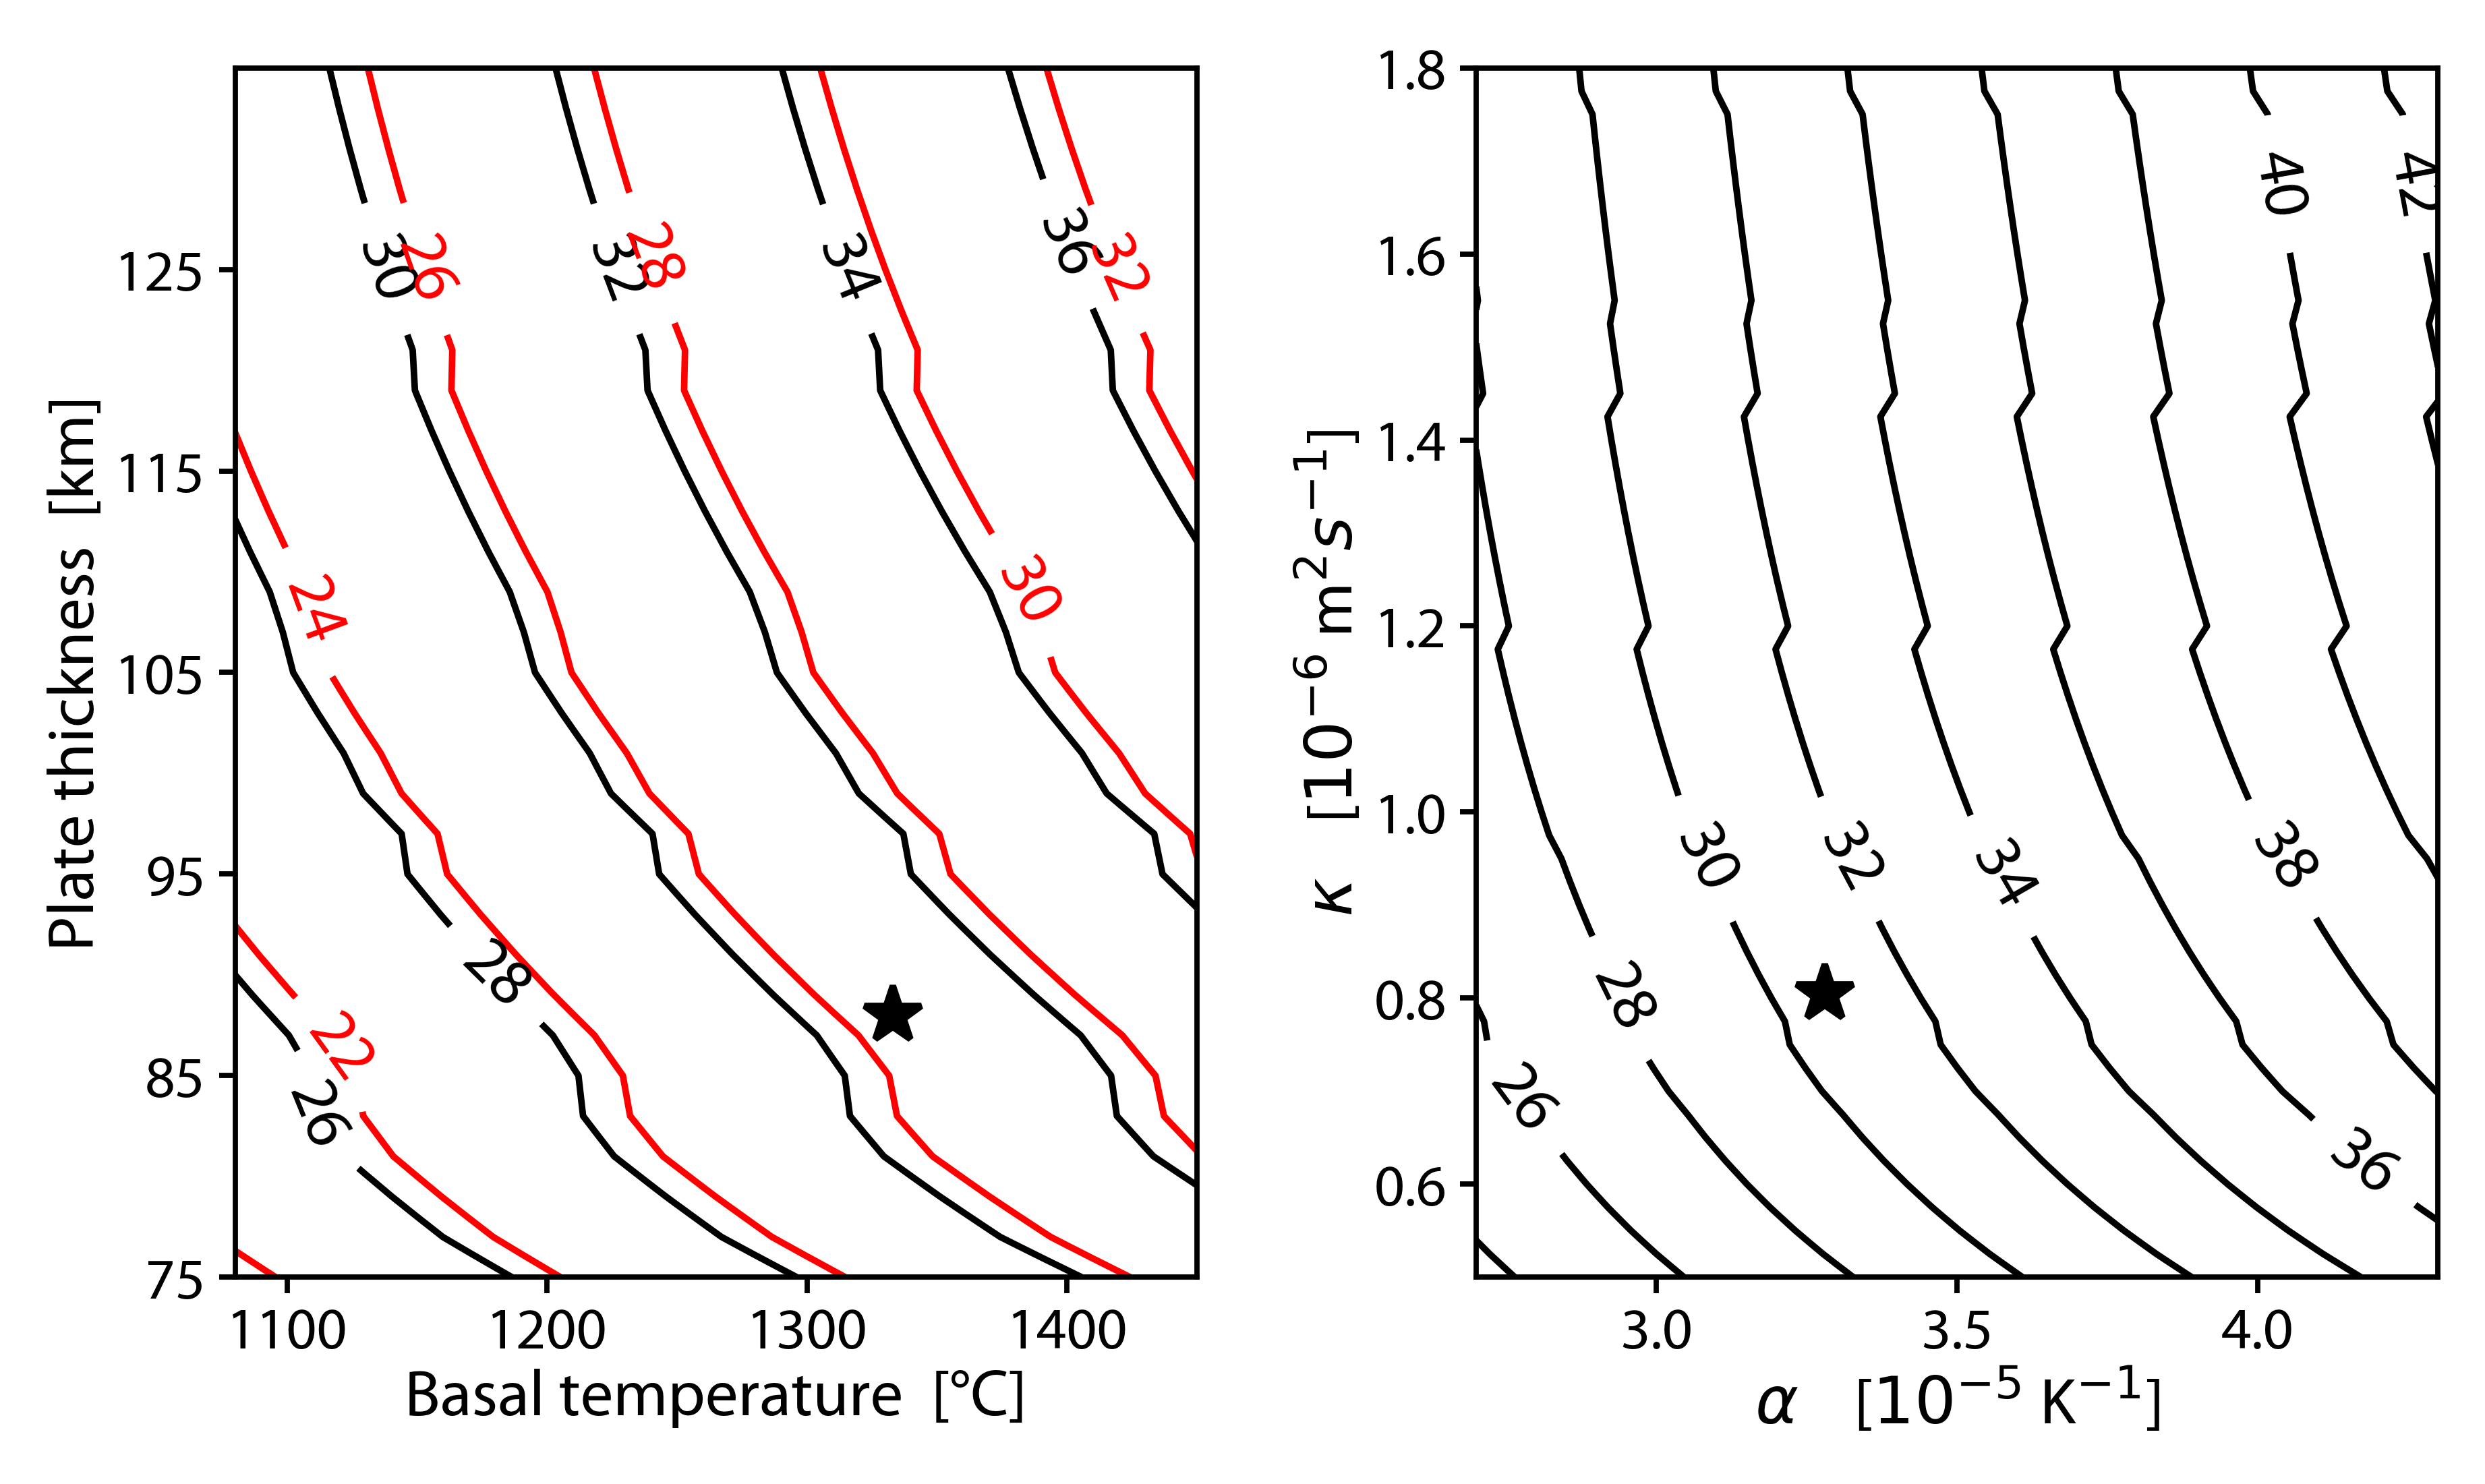
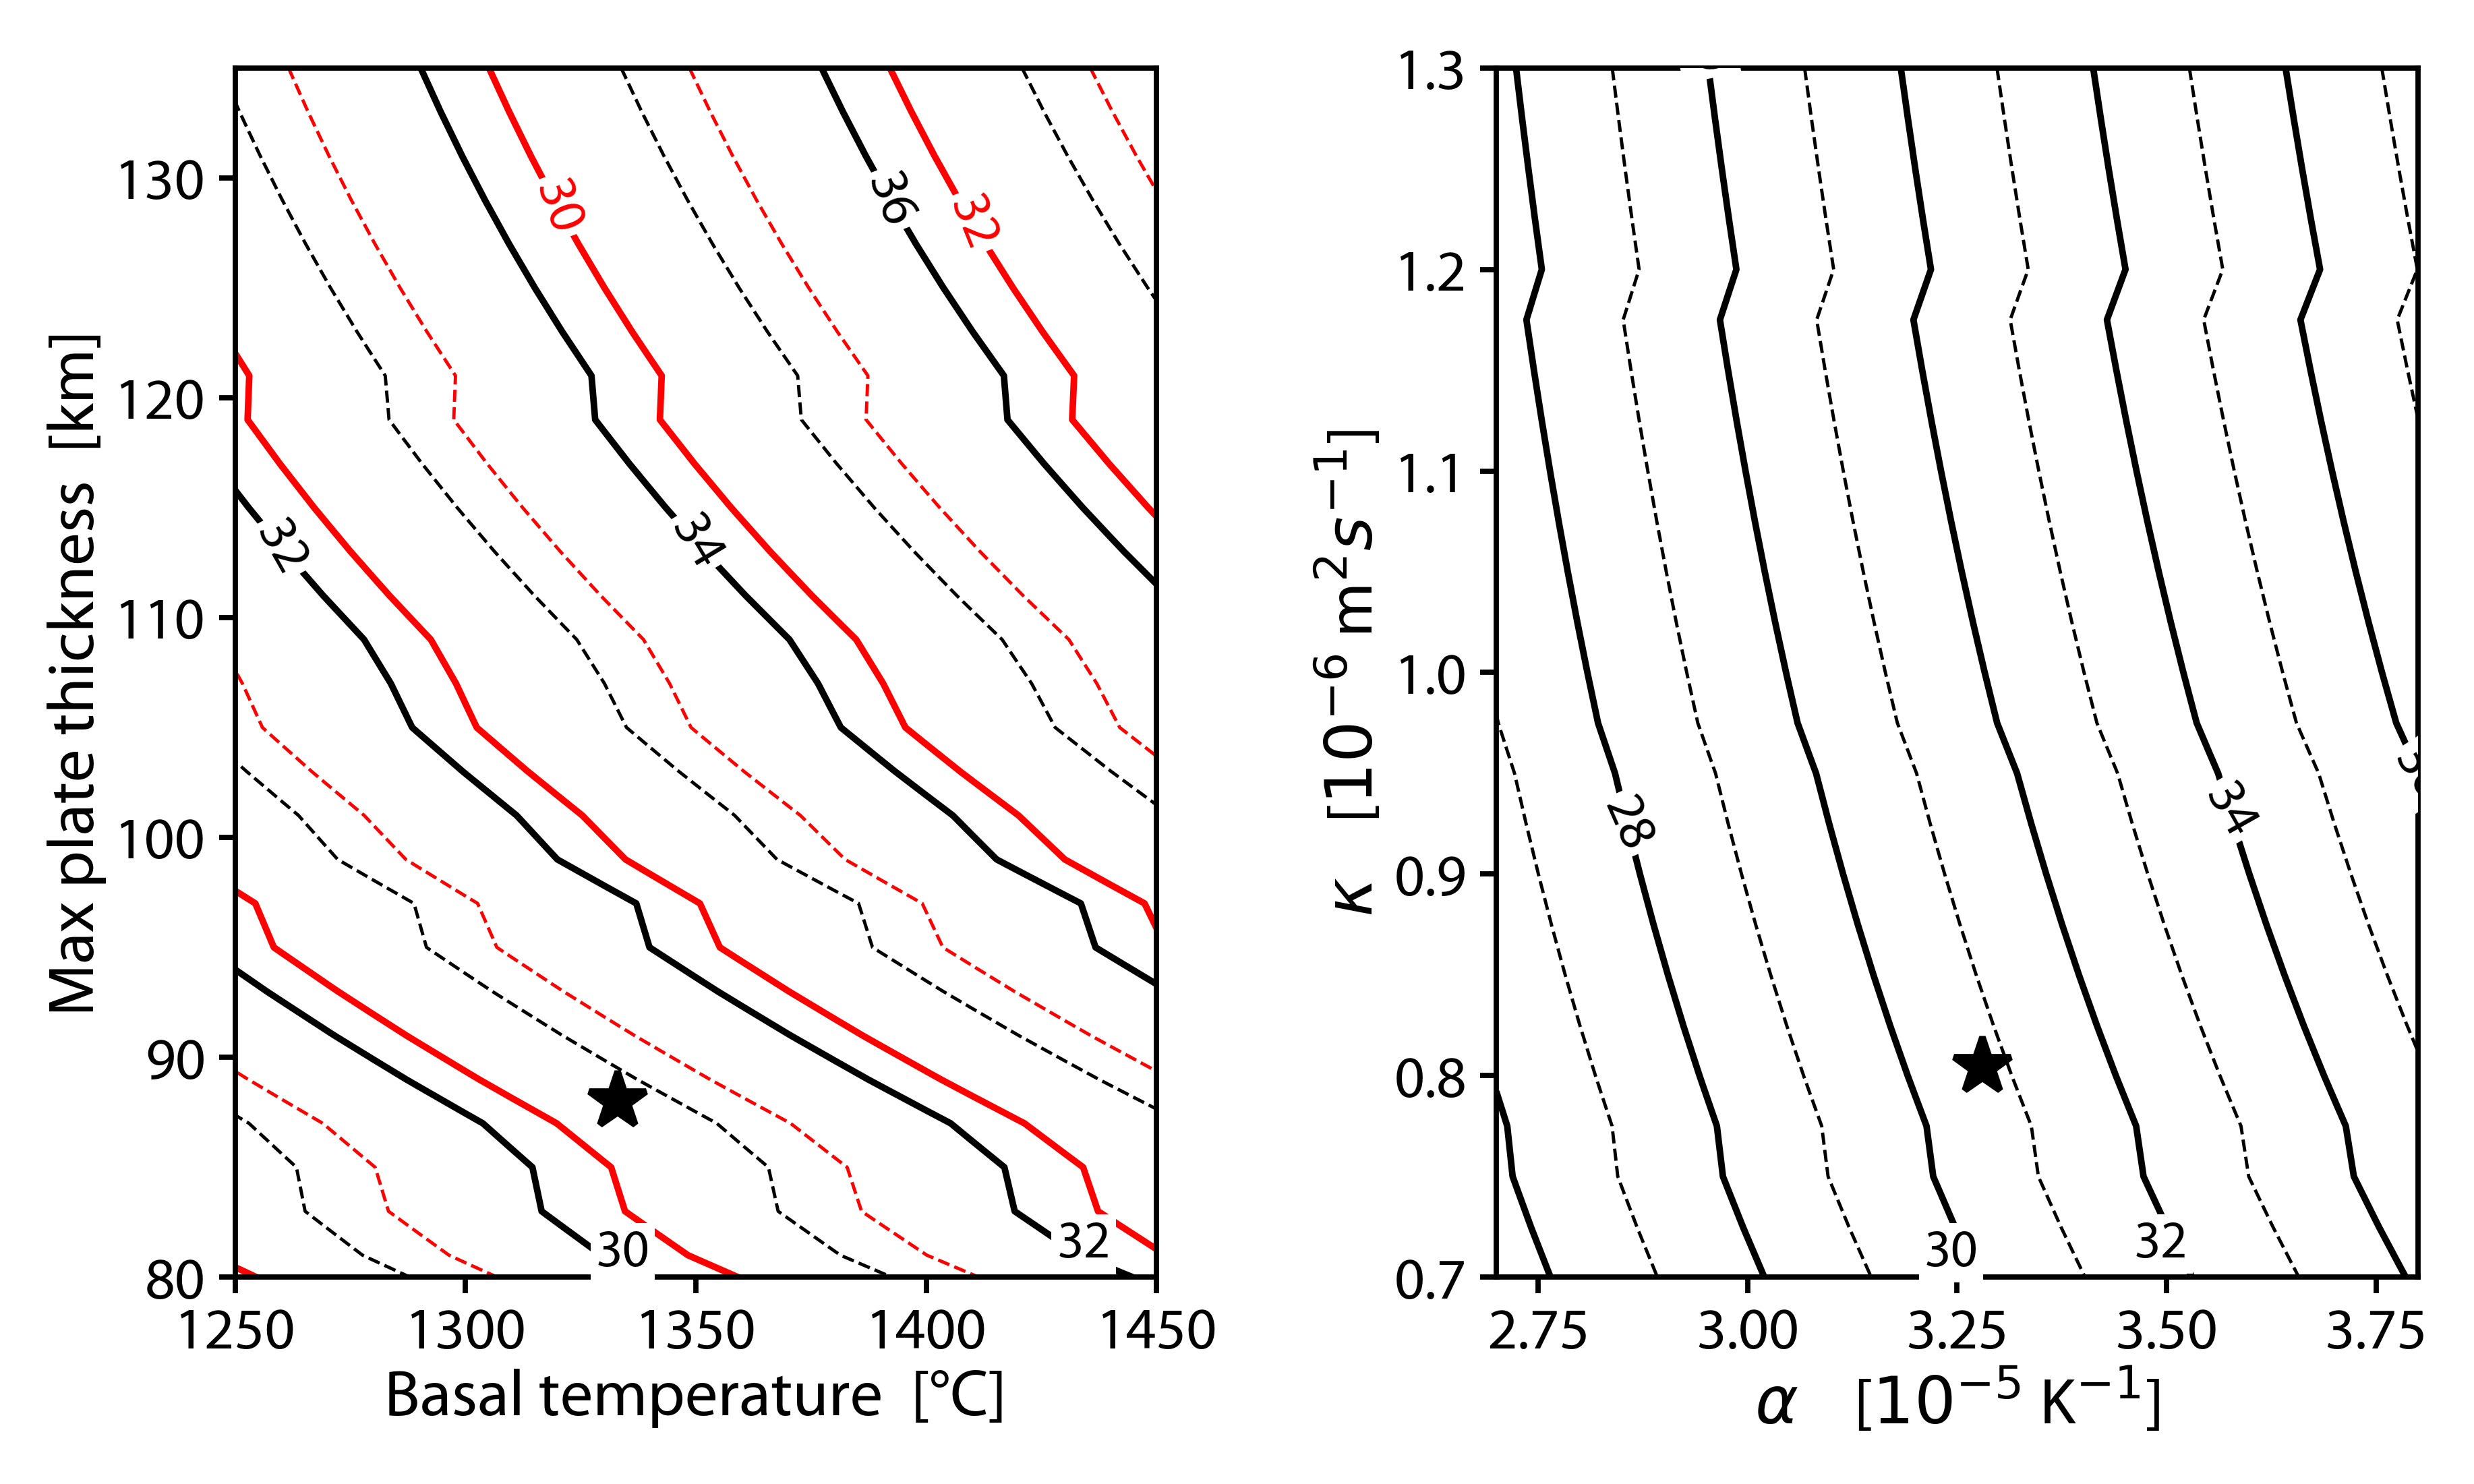
chore: regenerated observation plots, retire zips, archive lower-thresh map script

diff --git a/analysis/observations/old/plot_final_map_lower-scaling-thresh.py b/analysis/observations/old/plot_final_map_lower-scaling-thresh.py
@@ -1,0 +1,329 @@
+#!/usr/bin/env python
+import matplotlib.gridspec as gridspec
+import matplotlib.pyplot as plt
+import matplotlib as mpl
+from mpl_toolkits.basemap import Basemap, shiftgrid
+import matplotlib.colors as mcolors
+import numpy as np
+from netCDF4 import Dataset
+import sys
+import glob
+import math
+from scipy.interpolate import RegularGridInterpolator
+from functions import read_pb2002_boundaries, plot_ocean_age
+from functions import haversine, calculate_bearing, destination_point
+from functions import make_strictly_ascending, compute_DP_hs, compute_DP_pl
+from functions import load_data_file, stats_data_file, stats_DP
+import matplotlib.font_manager as fm
+font_path = "/home/holt/.local/share/fonts/MYRIADPRO-REGULAR.OTF"
+myriad_pro = fm.FontProperties(fname=font_path)
+
+
+mpl.rcParams['font.family'] = 'Myriad Pro'  # Now it should work if properly installed!
+mpl.rcParams['font.size'] = 10
+mpl.rcParams['axes.labelsize'] = 10
+mpl.rcParams['axes.labelpad'] = 1.25
+mpl.rcParams['xtick.labelsize'] = 8
+mpl.rcParams['ytick.labelsize'] = 8
+mpl.rcParams['xtick.major.pad'] = 2
+mpl.rcParams['ytick.major.pad'] = 2
+mpl.rcParams['xtick.major.size'] = 2.5
+mpl.rcParams['ytick.major.size'] = 2.5
+mpl.rcParams['xtick.minor.size'] = 1.25
+mpl.rcParams['ytick.minor.size'] = 1.25
+scaling_thresh = 5  # MPa, threshold for scaling parameter
+
+
+# constants
+slab_visc = float(4e22)           # Pa s [ref=5e22]
+alpha = float(3.28e-5)               # 1/K  [ref=3e-5]
+Tm = float(1333)                  # degC [ref=1300]
+diffusivity = float(8.044e-7)         # m^2/s [ref=1e-6]
+plate_thick = float(88e3)         # m [ref=88e3]
+crust_thick = float(7e3)         # m [ref=7e3]
+cooling_model = 'plate-cooling'
+
+# conversion factors
+cmyr_to_ms = 1e-2 / 3.154e7
+Ma_to_s = 1e6 * 3.154e7
+
+
+plotname=''.join(['plots/maps.slab',str(slab_visc),'.alpha',str(alpha),'.T',str(Tm),'.k',str(diffusivity),'.platethick',str(plate_thick),'.',cooling_model,'_low-scaling-thresh.png'])
+plotname_pdf=''.join(['plots/maps.slab',str(slab_visc),'.alpha',str(alpha),'.T',str(Tm),'.k',str(diffusivity),'.platethick',str(plate_thick),'.',cooling_model,'_low-scaling-thresh.pdf'])
+
+# ------------------------------------------------
+# --- Set up the map ---
+# ------------------------------------------------
+fig = plt.figure(figsize=(8,6))
+G = gridspec.GridSpec(2,3)
+
+# First subplot
+ax1 = plt.subplot(G[0, 0:2])
+m1 = Basemap(projection='robin', lon_0=-180, resolution='l',
+            llcrnrlat=-80, urcrnrlat=80, ax=ax1)
+m1.drawcoastlines(linewidth=0)
+m1.drawmapboundary(fill_color='white')
+m1.fillcontinents(color='silver', lake_color='silver')
+
+# Second subplot
+ax2 = plt.subplot(G[1, 0:2])
+m2 = Basemap(projection='robin', lon_0=-180, resolution='l',
+            llcrnrlat=-80, urcrnrlat=80, ax=ax2)
+m2.drawcoastlines(linewidth=0)
+m2.drawmapboundary(fill_color='white')
+m2.fillcontinents(color='silver', lake_color='silver')
+
+#------------------------------------------------
+# ------ plot slab contours ---------------------
+#------------------------------------------------
+slab_files = glob.glob("data/Slab2/*_dep_*grd")
+for grd_file in slab_files:
+    nc = Dataset(grd_file, 'r')
+    lon_arr = nc.variables['x'][:]  # Longitudespython3 plot_final_map.py 4e22 2e-5 1300 1e-6
+
+    lat_arr = nc.variables['y'][:]  # Latitudes
+    slab_data = nc.variables['z'][:]  # Slab depth data
+
+    # Make the arrays strictly ascending (in case of duplicate or constant values)
+    lat_arr = make_strictly_ascending(lat_arr)
+    lon_arr = make_strictly_ascending(lon_arr)
+
+    # close the file
+    nc.close()
+
+    interp = RegularGridInterpolator(
+        (lat_arr, lon_arr), slab_data, bounds_error=False, fill_value=np.nan)
+    
+    # Plot the slab data
+    lon2d, lat2d = np.meshgrid(lon_arr, lat_arr)
+    x2d, y2d = m1(lon2d, lat2d)
+    levels = np.arange(-600, 1, 100) 
+    cs = ax1.contour(x2d, y2d, slab_data, levels=levels, colors='red', linestyles='solid', linewidths=0.5,zorder=10)
+
+    x2d2, y2d2 = m2(lon2d, lat2d)
+    ax2.contour(x2d2, y2d2, slab_data, levels=levels, colors='red', linestyles='solid', linewidths=0.5,zorder=10)
+
+# ------------------------------------------------
+# -------- Read in the segment data --------------
+# ------------------------------------------------
+# Load data from file
+data = np.genfromtxt("data/segment_data.txt", delimiter=',', dtype=str)
+data[data == 'None'] = np.nan #  lon_center, lat_center, shallow_K, deep_K, chosen_vc, age, lon_for_age, lat_out, dip, dip_shall
+segment_data = np.array(data, dtype=float)
+
+# ------------------------------------------------
+# ---- compute and plot DP and K vc eta ----------
+# ------------------------------------------------
+DPmin, DPmax = 10, 70
+vminK, vmaxK = 0, 20
+norm1 = mcolors.Normalize(vmin=DPmin, vmax=DPmax)
+norm2 = mcolors.Normalize(vmin=vminK, vmax=vmaxK)
+DP_array = []
+for i in range(len(segment_data)):
+
+    # load everything in
+    lon_center, lat_center = segment_data[i,0], segment_data[i,1]
+    age = segment_data[i,5]               # Ma
+    dip_deep  = segment_data[i, 8]        # degrees
+    dip_shall = segment_data[i, 9]        # degrees
+    shallow_K = segment_data[i, 2]        # 1/km
+    deep_K = segment_data[i, 3]           # 1/km
+    vc = segment_data[i,4]                # cm/yr
+    if np.isnan(shallow_K) and np.isnan(deep_K):
+        K = np.nan
+    elif np.isnan(deep_K):
+        K = shallow_K/1000.   # now 1/m
+    else:
+        K = deep_K/1000.     
+
+    x1, y1 = m1(lon_center, lat_center)
+    x2, y2 = m2(lon_center, lat_center)
+
+    if not np.isnan(dip_shall) and age < 250 and not np.isnan(vc) and not np.isnan(K):
+
+        # compute/plot K*eta*vc -------------------
+        stress_scaling = (K * (vc * cmyr_to_ms) * (slab_visc) * 1e-6)/10.   # MPa
+        x2, y2 = m2(lon_center, lat_center)
+        if np.abs(stress_scaling) > scaling_thresh:
+            edgecolor = 'gray'
+            edgethick = 0.4
+            zord = 10
+        else:
+            edgecolor = 'black'
+            edgethick = 0.6
+            zord = 11
+        ck = ax2.scatter(x2, y2, s=23, c=np.abs(stress_scaling), cmap='BrBG', norm=norm2, edgecolors=edgecolor, linewidths=edgethick, zorder=zord)
+
+        # compute/plot DP ------------------------
+        if not np.isnan(dip_deep):
+            DP = compute_DP_pl(age, dip_deep, Tm, k=diffusivity, rho0=3330., alpha=alpha, crust_density=3450, crust_thick=crust_thick, plate_thick=plate_thick)
+        else:
+            DP = compute_DP_pl(age, dip_shall, Tm, k=diffusivity, rho0=3330., alpha=alpha, crust_density=3450, crust_thick=crust_thick, plate_thick=plate_thick)
+                
+        cp = ax1.scatter(x1, y1, s=23, c=DP, cmap='inferno_r', norm=norm1, edgecolors=edgecolor, linewidths=edgethick, zorder=zord)
+
+        # store DP and stress scaling
+        DP_array.append((DP, np.abs(stress_scaling)))
+
+DP_array = np.array(DP_array)
+
+cp_bar = plt.colorbar(cp, ax=ax1, label=r'$\Delta P$   [MPa]', shrink=0.5, pad=0.05)
+cp_bar.set_ticks([10, 20, 30, 40, 50, 60, 70])
+ck_bar = plt.colorbar(ck, ax=ax2, label=r'($\eta K V_{C}$)/10  [MPa]', extend='max', shrink=0.5, pad=0.05)
+
+# ------------------------------------------------
+# --- Plot plate boundaries ---
+# ------------------------------------------------
+boundaries = read_pb2002_boundaries("data/PB2002/PB2002_boundaries.dig.txt")
+for seg in boundaries:
+    if len(seg['coords']) < 2:
+        continue  # need at least two points to plot a line
+    lons, lats = zip(*seg['coords'])
+    x, y = m1(lons, lats)
+    if seg['symbol'] in ["/", "\\"]:
+        color = 'magenta'
+        lw = 1.25
+    else:
+        color = 'black'
+        lw = 0.5
+    # Handle boundaries that cross the prime meridian.
+    if min(lons) < 0 and max(lons) > 0:
+        lons1, lats1, lons2, lats2 = [], [], [], []
+        for i in range(len(lons)):
+            if lons[i] > 0:
+                lons1.append(lons[i])
+                lats1.append(lats[i])
+            else:
+                lons2.append(lons[i])
+                lats2.append(lats[i])
+        m1.plot(*m1(lons1, lats1), color=color, linewidth=lw)
+        m1.plot(*m1(lons2, lats2), color=color, linewidth=lw)
+        m2.plot(*m2(lons1, lats1), color=color, linewidth=lw)
+        m2.plot(*m2(lons2, lats2), color=color, linewidth=lw)
+    else:
+        m1.plot(x, y, color=color, linewidth=lw)
+        m2.plot(x, y, color=color, linewidth=lw)
+
+# ------------------------------------------------
+# ----------- Plot DP histogram ------------------
+# ------------------------------------------------
+
+# Define the independent variables:
+T_vals = np.arange(1080, 1450+10, 10)
+plate_thick_vals = np.arange(75e3, 135e3+2e3, 2e3)
+
+# Initialize a grid to store the DPmean_thresh values.
+# The grid shape will be (# of plate_thick_vals, # of T_vals)
+DPmean_thresh_grid = np.zeros((len(plate_thick_vals), len(T_vals)))
+
+# Loop over all combinations of T and plate thickness and compute DPmean_thresh.
+for i, plate_thick_val in enumerate(plate_thick_vals):
+    for j, T_val in enumerate(T_vals):
+        data = load_data_file(slab_visc, alpha, float(T_val), diffusivity, float(plate_thick_val), crust_thick, cooling_model)
+        DPmean_thresh, DPmean_tot = stats_DP(data,scaling_thresh)  # threshold of 10 MPa
+        DPmean_thresh_grid[i, j] = DPmean_thresh
+
+plate_thick_vals_km = plate_thick_vals / 1e3
+
+# Create the subplot (ax3) for the colored grid.
+ax3 = plt.subplot(G[0, 2])
+
+contour_levels1 = np.arange(20, 40+2, 2)
+contours1 = ax3.contour(T_vals, plate_thick_vals_km, DPmean_thresh_grid, levels=contour_levels1, colors='black', linewidths=1, linestyles='solid')
+ax3.clabel(contours1, inline=True, fontsize=10)
+
+# plot paramters of the map
+ax3.plot(Tm, plate_thick/1e3, 'k*', markersize=9)
+
+# Set axis labels and ticks.
+ax3.set_xlabel('Basal temperature  [°C]')
+ax3.set_ylabel('Plate thickness  [km]')
+ax3.set_xticks(np.arange(1100, 1400+100, 100))
+ax3.set_yticks(np.arange(75,135,10))
+ax3.tick_params(axis='both', labelsize=10)
+ax3.labelsize = 12
+
+
+# ------------------------------------------------
+# -------- Plot scaling histogram ----------------
+# ------------------------------------------------
+
+# load in scaling & DP values for other slab viscs
+array1  = load_data_file(4e20,alpha,Tm,diffusivity,plate_thick,crust_thick,cooling_model)
+array2  = load_data_file(8e20,alpha,Tm,diffusivity,plate_thick,crust_thick,cooling_model)
+array3  = load_data_file(1e21,alpha,Tm,diffusivity,plate_thick,crust_thick,cooling_model)
+array4  = load_data_file(4e21,alpha,Tm,diffusivity,plate_thick,crust_thick,cooling_model)
+array5  = load_data_file(8e21,alpha,Tm,diffusivity,plate_thick,crust_thick,cooling_model)
+array6  = load_data_file(1e22,alpha,Tm,diffusivity,plate_thick,crust_thick,cooling_model)
+array7  = load_data_file(4e22,alpha,Tm,diffusivity,plate_thick,crust_thick,cooling_model)
+array8  = load_data_file(8e22,alpha,Tm,diffusivity,plate_thick,crust_thick,cooling_model)
+array9  = load_data_file(1e23,alpha,Tm,diffusivity,plate_thick,crust_thick,cooling_model)
+array10 = load_data_file(4e23,alpha,Tm,diffusivity,plate_thick,crust_thick,cooling_model)
+array11 = load_data_file(8e23,alpha,Tm,diffusivity,plate_thick,crust_thick,cooling_model)
+array12 = load_data_file(1e24,alpha,Tm,diffusivity,plate_thick,crust_thick,cooling_model)
+array13 = load_data_file(4e24,alpha,Tm,diffusivity,plate_thick,crust_thick,cooling_model)
+
+mean1, std1, perc1 = stats_data_file(array1,scaling_thresh)
+mean2, std2, perc2 = stats_data_file(array2,scaling_thresh)
+mean3, std3, perc3 = stats_data_file(array3,scaling_thresh)
+mean4, std4, perc4 = stats_data_file(array4,scaling_thresh)
+mean5, std5, perc5 = stats_data_file(array5,scaling_thresh)
+mean6, std6, perc6 = stats_data_file(array6,scaling_thresh)
+mean7, std7, perc7 = stats_data_file(array7,scaling_thresh)
+mean8, std8, perc8 = stats_data_file(array8,scaling_thresh)
+mean9, std9, perc9 = stats_data_file(array9,scaling_thresh)
+mean10, std10, perc10 = stats_data_file(array10,scaling_thresh)
+mean11, std11, perc11 = stats_data_file(array11,scaling_thresh)
+mean12, std12, perc12 = stats_data_file(array12,scaling_thresh)
+mean13, std13, perc13 = stats_data_file(array13,scaling_thresh)
+
+ax4 = plt.subplot(G[1, 2])
+
+color='white'
+edgescolor='black'
+size=70
+ax4.scatter(np.log10(4e20), perc1,  s=size, c=color, edgecolors=edgescolor, linewidths=0.65, zorder=10)
+ax4.scatter(np.log10(8e20), perc2,  s=size, c=color, edgecolors=edgescolor, linewidths=0.65, zorder=10)
+ax4.scatter(np.log10(1e21), perc3,  s=size, c=color, edgecolors=edgescolor, linewidths=0.65, zorder=10)
+ax4.scatter(np.log10(4e21), perc4,  s=size, c=color, edgecolors=edgescolor, linewidths=0.65, zorder=10)
+ax4.scatter(np.log10(8e21), perc5,  s=size, c=color, edgecolors=edgescolor, linewidths=0.65, zorder=10)
+ax4.scatter(np.log10(1e22), perc6,  s=size, c=color, edgecolors=edgescolor, linewidths=0.65, zorder=10)
+ax4.scatter(np.log10(4e22), perc7,  s=size, c='black', edgecolors=edgescolor, linewidths=0.65, zorder=10)
+ax4.scatter(np.log10(8e22), perc8,  s=size, c=color, edgecolors=edgescolor, linewidths=0.65, zorder=10)
+ax4.scatter(np.log10(1e23), perc9,  s=size, c=color, edgecolors=edgescolor, linewidths=0.65, zorder=10)
+ax4.scatter(np.log10(4e23), perc10, s=size, c=color, edgecolors=edgescolor, linewidths=0.65, zorder=10)
+ax4.scatter(np.log10(8e23), perc11, s=size, c=color, edgecolors=edgescolor, linewidths=0.65, zorder=10)
+ax4.scatter(np.log10(1e24), perc12, s=size, c=color, edgecolors=edgescolor, linewidths=0.65, zorder=10)
+ax4.scatter(np.log10(4e24), perc13, s=size, c=color, edgecolors=edgescolor, linewidths=0.65, zorder=10)
+
+# ticks on bottom
+ax4.set_xticks([20, 21, 22, 23, 24, 25])
+ax4.set_xticklabels(['$10^{20}$', '$10^{21}$', '$10^{22}$', '$10^{23}$', '$10^{24}$', '$10^{25}$'])
+ax4.xaxis.set_ticks_position('bottom')
+
+# ticks on top
+ax_top = ax4.twiny()  # Create a new x-axis on the top
+ax_top.set_xlim(ax4.get_xlim())
+top_ticks = [np.log10(4e20), np.log10(4e21), np.log10(4e22), np.log10(4e23), np.log10(4e24)]
+top_tick_labels = ['1', '10', '100', '1000', '10000']
+ax_top.set_xticks(top_ticks)
+ax_top.set_xticklabels(top_tick_labels)
+side_ticks = [0, 20, 40, 60, 80, 100]
+side_tick_labels = ['0', '20 %', '40 %', '60 %', '80 %', '100 %']
+ax_top.set_yticks(side_ticks)
+ax_top.set_yticklabels(side_tick_labels)
+
+ax4.set_ylabel(r'($\eta K V_{C}$)/10  <  10 MPa')
+ax4.set_xlabel(r'$\eta$  [Pa s]' )
+ax_top.set_xlabel(r'$\eta$ / $\eta_{mantle}$')
+ax4.set_xlim(20, 25)
+ax4.set_ylim(-4, 104)
+
+ax4.tick_params(axis='both', labelsize=10)
+ax_top.tick_params(axis='both', labelsize=10)
+ax4.labelsize = 12
+
+plt.tight_layout()
+plt.savefig(plotname, bbox_inches='tight', format='png', dpi=700)
+plt.savefig(plotname_pdf, bbox_inches='tight', format='pdf')
+plt.clf()